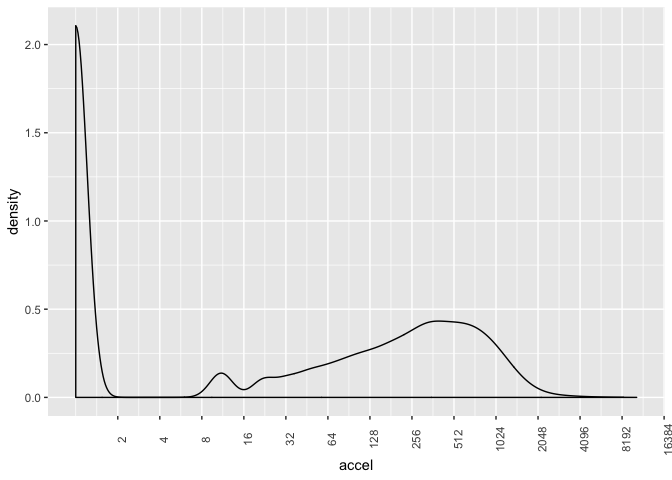
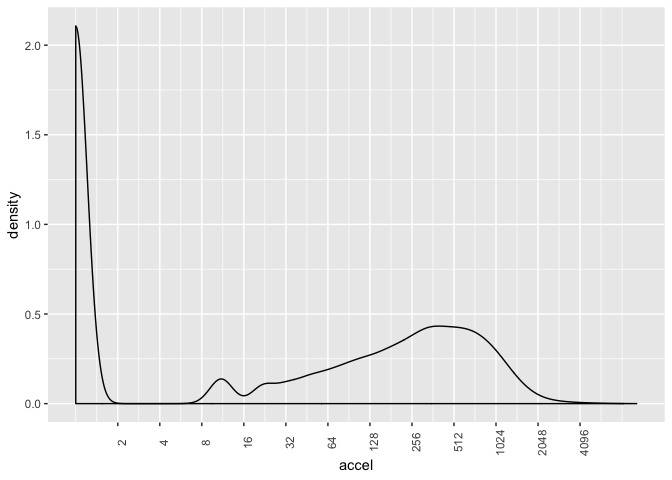
set cutoff to separate activities
compare pooled and separate plots

diff --git a/p8105_mtp_zf2213.md b/p8105_mtp_zf2213.md
@@ -37,16 +37,16 @@ acc_tidy <- acc %>%
     mutate(hour = time_activity %/% 60, minute = time_activity %% 60) %>% 
     # relevel day variable
     mutate(day = forcats::fct_relevel(day, c("Sunday", "Monday", "Tuesday",
-                                                                                     "Wednesday", "Thursday", "Friday", "Saturday")))
+                                                                                     "Wednesday", "Thursday", "Friday", "Saturday"))) %>% 
+    mutate(day_of_period = (week - 1) * 7 + as.integer(day))
 ```
 
 ``` r
 # activity over all followup period
-acc_tidy %>%
-    mutate(day_of_year = week * as.integer(day)) %>% 
-    group_by(day_of_year) %>% 
+acc_tidy %>% 
+    group_by(day_of_period) %>% 
     summarize(sum_accel = sum(accel)) %>% 
-    ggplot(aes(x = day_of_year, y = sum_accel)) +
+    ggplot(aes(x = day_of_period, y = sum_accel)) +
       geom_point() +
       labs(
         x = "Day",
@@ -60,20 +60,59 @@ acc_tidy %>%
 # take a look at activity distribution
 acc_tidy %>% ggplot(aes(x = accel)) +
     geom_density() +
-    scale_x_log10(breaks = 2^c(1:500)) +
+    scale_x_log10(breaks = 2^c(1:12)) +
     theme(axis.text.x = element_text(angle = 90))
 ```
 
 ![](p8105_mtp_zf2213_files/figure-markdown_github/sub_group-1.png)
 
+it seems there are two "types" of activity, low intensity activity, such as sleep, sit, etc, and high intensity activity, such as walk, run, climb stairs, etc.
+
+``` r
+# across a day, log, mean
+acc_tidy %>%
+    group_by(time_activity) %>% 
+    summarize(mean_activity = mean(accel)) %>% 
+    ggplot(aes(x = time_activity, y = log(mean_activity))) +
+      geom_line()
+```
+
+![](p8105_mtp_zf2213_files/figure-markdown_github/pool-1.png)
+
+``` r
+# across a day, mean
+acc_tidy %>%
+    group_by(time_activity) %>% 
+    summarize(mean_activity = mean(accel)) %>% 
+    ggplot(aes(x = time_activity, y = mean_activity)) +
+      geom_line()
+```
+
+![](p8105_mtp_zf2213_files/figure-markdown_github/pool-2.png)
+
+``` r
+# across day of period
+acc_tidy %>%
+    group_by(day_of_period) %>% 
+    summarize(mean_activity = mean(accel), sum_activity = sum(accel)) %>%
+    gather(key = "type", value = "accel", mean_activity, sum_activity) %>%
+    ggplot(aes(x = day_of_period, y = accel, color = type)) +
+      geom_line() +
+      geom_smooth()
+```
+
+    ## `geom_smooth()` using method = 'loess' and formula 'y ~ x'
+
+![](p8105_mtp_zf2213_files/figure-markdown_github/pool-3.png)
+
 ``` r
 # subgroup range of activity 
 acc_subgroup <- acc_tidy %>% mutate(range_accel = cut(accel, c(0, 8, 16, Inf),
                                                                             labels = c("low", "middle", "high")),
-                                                                        day_of_period = as.integer(day) * week
+                                                                        day_of_period = as.integer(day) + week * 7
                                                                         ) 
 
-# across a day
+# across a day, mean
 acc_subgroup %>%
     group_by(time_activity, range_accel) %>% 
     summarize(mean_activity = mean(accel)) %>% 
@@ -82,7 +121,7 @@ acc_subgroup %>%
       facet_grid(. ~ range_accel)
 ```
 
-![](p8105_mtp_zf2213_files/figure-markdown_github/sub_group-2.png)
+![](p8105_mtp_zf2213_files/figure-markdown_github/cutoff-1.png)
 
 ``` r
 # middle and low fraction are fluctrating
@@ -96,7 +135,7 @@ acc_subgroup %>%
       facet_grid(. ~ range_accel)
 ```
 
-![](p8105_mtp_zf2213_files/figure-markdown_github/sub_group-3.png)
+![](p8105_mtp_zf2213_files/figure-markdown_github/cutoff-2.png)
 
 ``` r
 # across day of the period, sum
@@ -111,7 +150,7 @@ acc_subgroup %>%
 
     ## `geom_smooth()` using method = 'loess' and formula 'y ~ x'
 
-![](p8105_mtp_zf2213_files/figure-markdown_github/sub_group-4.png)
+![](p8105_mtp_zf2213_files/figure-markdown_github/cutoff-3.png)
 
 ``` r
 # across day of the period, sum not log
@@ -126,48 +165,34 @@ acc_subgroup %>%
 
     ## `geom_smooth()` using method = 'loess' and formula 'y ~ x'
 
-![](p8105_mtp_zf2213_files/figure-markdown_github/sub_group-5.png)
+![](p8105_mtp_zf2213_files/figure-markdown_github/cutoff-4.png)
 
 ``` r
-# get activity during a day
-acc_tidy %>%
-    group_by(time_activity) %>% 
-    summarize(sum_accel = sum(accel)) %>% 
-    ggplot(aes(x = time_activity, y = sum_accel)) +
-      geom_point() +
-      labs(
-        x = "Time of a day",
-        y = "Sum of counts"
-      )
+# across week
+acc_subgroup %>%
+    group_by(day, range_accel) %>% 
+    summarize(sum_activity = sum(accel)) %>% 
+    ggplot(aes(x = day, y = sum_activity, group = range_accel, color = range_accel)) +
+      geom_line() +
+      geom_smooth() +
+      facet_grid(. ~ range_accel)
 ```
 
-![](p8105_mtp_zf2213_files/figure-markdown_github/unnamed-chunk-4-1.png)
+    ## `geom_smooth()` using method = 'loess' and formula 'y ~ x'
+
+![](p8105_mtp_zf2213_files/figure-markdown_github/cutoff-5.png)
 
 ``` r
-acc_tidy %>%
-    ggplot(aes(x = time_activity, y = accel)) +
-      geom_boxplot() +
-      labs(
-        x = "Time of a day",
-        y = "Sum of counts"
-      )
+# across week X day
+acc_subgroup %>%
+    group_by(day, day_of_period, range_accel) %>% 
+    summarize(sum_activity = sum(accel)) %>% 
+    ggplot(aes(x = day_of_period, y = sum_activity, group = range_accel, color = range_accel)) +
+      geom_line() +
+      geom_smooth() +
+      facet_grid(. ~ day)
 ```
 
-    ## Warning: Continuous x aesthetic -- did you forget aes(group=...)?
+    ## `geom_smooth()` using method = 'loess' and formula 'y ~ x'
 
-![](p8105_mtp_zf2213_files/figure-markdown_github/unnamed-chunk-4-2.png)
-
-``` r
-# get activity during a week
-acc_tidy %>%
-    ggplot(aes(x = day, y = log(accel))) +
-      geom_violin() +
-      labs(
-        x = "Day of a week",
-        y = "Sum of counts"
-      )
-```
-
-![](p8105_mtp_zf2213_files/figure-markdown_github/unnamed-chunk-5-1.png)
-
-it seems there are two "types" of activity, low intensity activity, such as sleep, sit, etc, and high intensity activity, such as walk, run, climb stairs, etc.
+![](p8105_mtp_zf2213_files/figure-markdown_github/cutoff-6.png)
